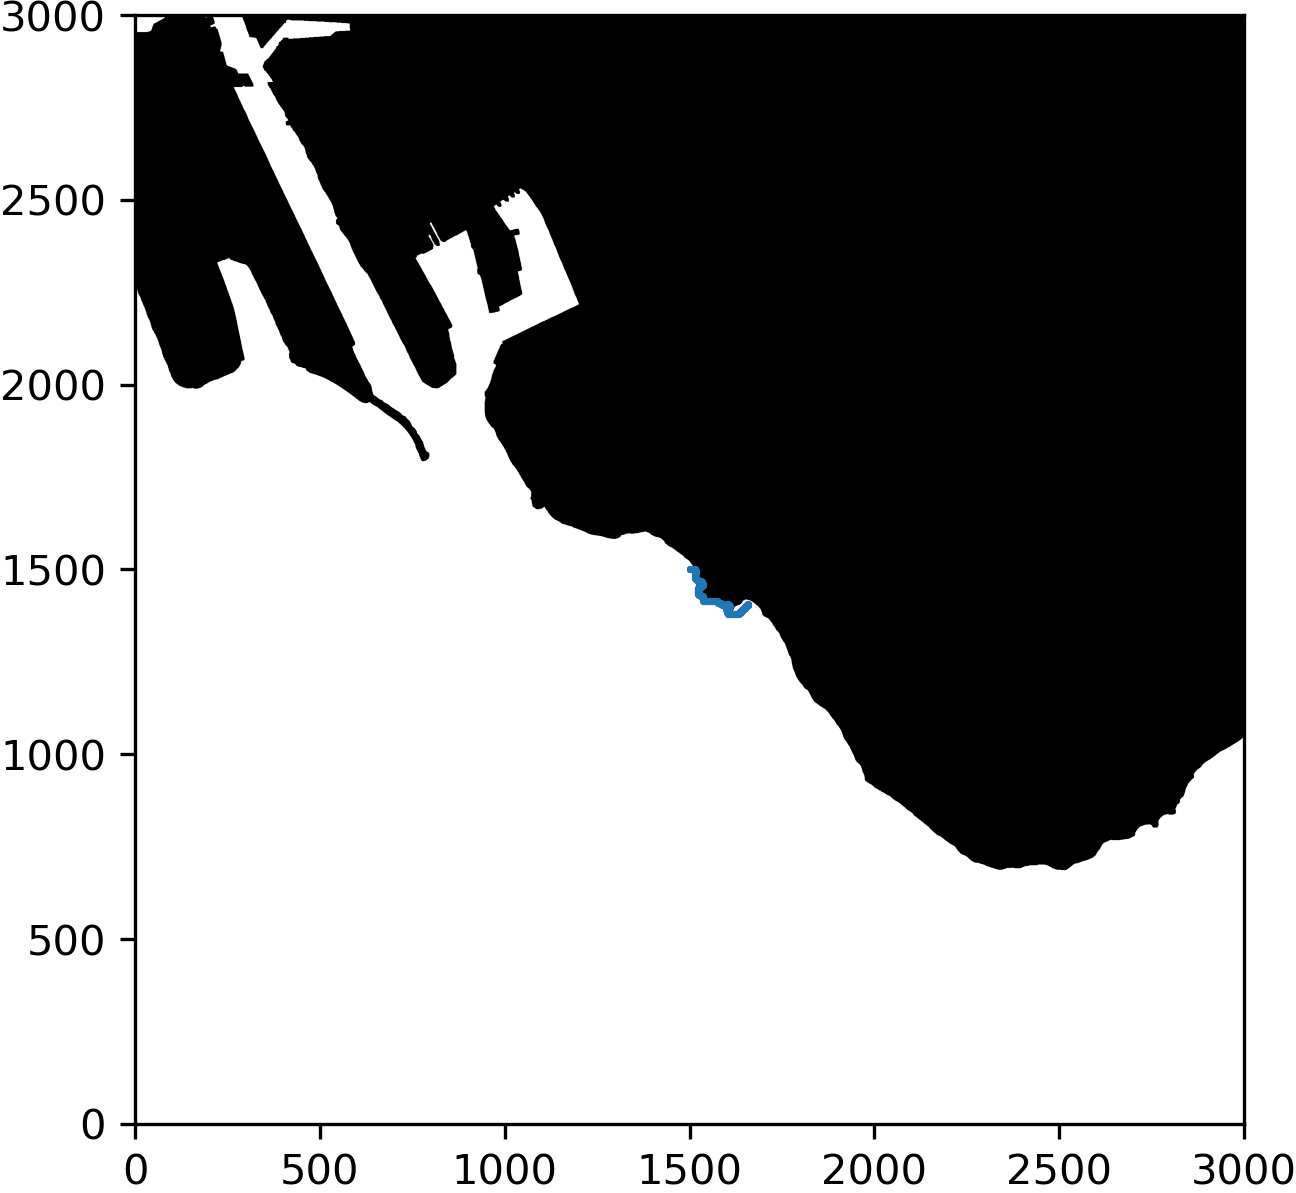
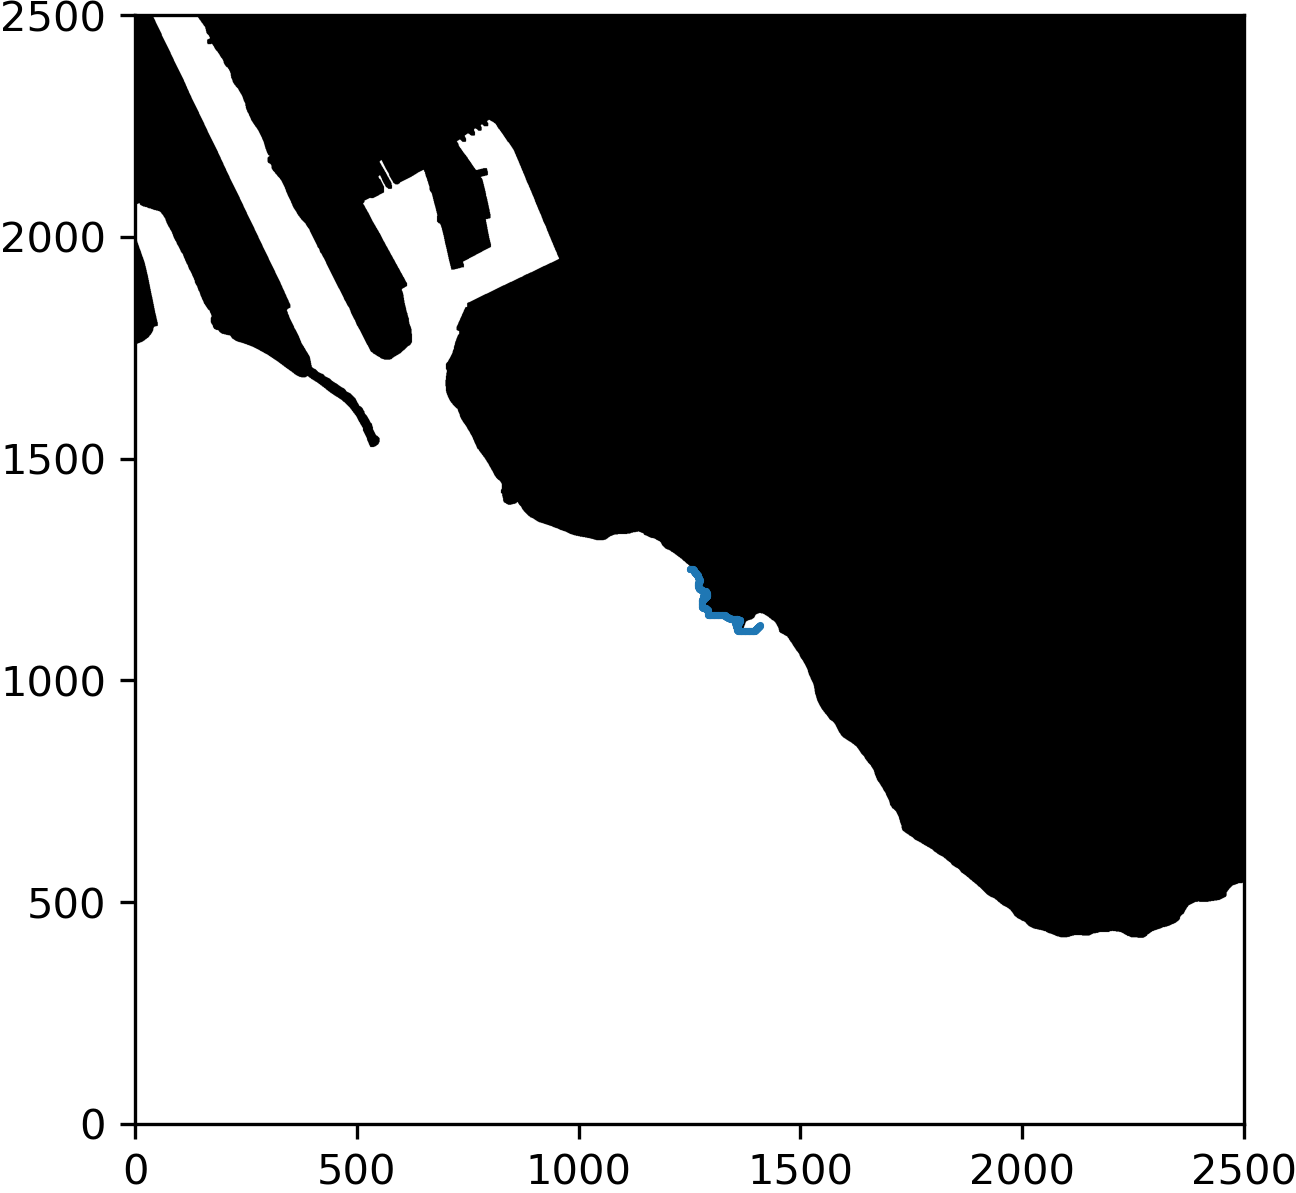
added plotting waypoints and path

diff --git a/src/plot.py b/src/plot.py
@@ -1,9 +1,125 @@
-from seacharts import ENC
+
+import src.coordinate_conversion as cc
 import src.util_functions as uf
-import numpy as np
-'''
-    Plotting functionality is not yet fully implemented, will come soon. :)
-'''
+from seacharts import ENC
+import csv
+
+def read_config(identifier, logpath):
+    '''Reads the mission log config file and returns the values as a dictionary. (Used in plot_mission())
+        params:
+            identifier = unique identifier tied to the logs (datetime in filename)
+            logpath     = path to the mission logfile directory
+    '''
+
+
+
+    with open(f'{logpath}/mission_log_config_{identifier}.csv', 'r', newline='\n') as configfile:
+        reader = csv.reader(configfile, delimiter=';')
+        for row in reader:
+            size0, size1, center0, center1 = row
+            size = (int(size0), int(size1))
+            center = (float(center0), float(center1))    
+    return size, center
+
+
+def read_position(identifier, logpath):
+    '''Reads the mission log position file and returns the values as a dictionary. (Used in plot_mission())
+        params:
+            identifier = unique identifier tied to the logs (datetime in filename)
+            logpath     = path to the mission logfile directory
+    '''
+
+    position = {
+        'time'      : [],
+        'latitude'  : [],
+        'longitude' : [],
+    }
+    
+    with open(f'{logpath}/mission_log_position_{identifier}.csv', 'r', newline='\n') as positionfile:
+        reader = csv.reader(positionfile, delimiter=';')
+        for row in reader:
+            time, latitude, longitude = row
+            position['time'].append(time)
+            position['latitude'].append(latitude)
+            position['longitude'].append(longitude)
+    return position
+
+
+def read_waypoints(identifier, logpath):
+    '''Reads the mission log waypoints file and returns the values as a dictionary. (Used in plot_mission())
+        params:
+            identifier = unique identifier tied to the logs (datetime in filename)
+            logpath     = path to the mission logfile directory
+    '''
+
+    waypoints = {
+        'time'      : [],
+        'seq'       : [],
+        'x'  : [],
+        'y' : [],
+    }
+    
+    with open(f'{logpath}/mission_log_waypoints_{identifier}.csv', 'r', newline='\n') as positionfile:
+        reader = csv.reader(positionfile, delimiter=';')
+        for row in reader:
+            time, seq, latitude, longitude = row
+            xy = cc.utm33_to_wgs84(latitude, longitude, inverse=True)
+
+            waypoints['time'].append(time)
+            waypoints['seq'].append(int(seq))
+            waypoints['x'].append(float(xy[0]))
+            waypoints['y'].append(float(xy[1]))
+    return waypoints
+
+
+
+
+
+def plot_mission(enc_settings, identifier, logpath):
+    ''' Uses the mission logs (both position and waypoints) to plot the planned 
+        path and the actual path taken during the mission.
+        params:
+            identifier = unique identifier tied to the logs (datetime in filename)
+            config     = path to the config log file
+            waypoints  = path to the waypoint log file
+            positions  = path to the position log file
+    '''
+
+    # Reading the mission logs
+    size, center    = read_config(identifier, logpath)
+    waypoints = read_waypoints(identifier, logpath)
+    position  = read_position(identifier, logpath)
+
+    # Configuring ENC to be identical to the mission
+    uf.configure_enc(enc_settings, (272338.26,7043905.93), size)
+    enc = ENC(config='map_settings.yaml')
+    enc.update()
+
+    # Drawing waypoint with arrows between:
+    previous_waypoint_coordinates = 0
+    for index in waypoints['seq']:
+        waypoint_coordinates = (waypoints['x'][index], waypoints['y'][index])
+        print(waypoint_coordinates)
+        enc.display.draw_circle(center=waypoint_coordinates,
+                                radius=4.0,
+                                color='white',
+                                fill=True,
+                                )
+
+        if (previous_waypoint_coordinates != 0):
+            enc.display.draw_arrow(start=previous_waypoint_coordinates,
+                                end=waypoint_coordinates,
+                                color='white',
+                                width=0.25,
+                                fill=True)
+    
+        previous_waypoint_coordinates = waypoint_coordinates
+    
+
+    enc.display.show()
+
+
+
 
 #center = (271794.3121781586, 7042820.867264936)
 #start = center
@@ -14,22 +130,3 @@ import numpy as np
 #enc = ENC('map_settings.yaml')
 #enc.display.draw_arrow(start, end,color='red')
 #enc.display.show()
-
-
-def plot_mission(identifier, logpath, ):
-    ''' Uses the mission logs (both position and waypoints) to plot the planned 
-        path and the actual path taken during the mission.
-        params:
-            identifier = unique identifier tied to the logs (datetime in filename)
-            config     = path to the config log file
-            waypoints  = path to the waypoint log file
-            positions  = path to the position log file
-    '''
-    size, center = np.loadtxt(f'{logpath}/mission_log_config_{identifier}.csv', 
-                              unpack=True, 
-                              skiprows=0,
-                              delimiter=';')
-    
-    print('size: ', size)
-    print('center: ', center)
-

diff --git a/src/util_functions.py b/src/util_functions.py
@@ -30,7 +30,7 @@ def configure_enc(yaml_path, center, size):
     """ Changes configuration values in the ENC's .yaml file:
         Input:
             - yaml_path: Filepath to yaml file
-            - center: New centervalue (in practice "cornervalue") TODO: Add offset
+            - center: New centervalue (in practice "cornervalue")
             - size: New sizevalue
         """
     
@@ -54,12 +54,12 @@ def log_mission_items(identifier, logpath, mission_items):
     with open(f'{logpath}/mission_log_waypoints_{identifier}.csv', 'a', newline='\n') as file:
         writer = csv.writer(file, delimiter=';')
         for item in mission_items:
-            writer.writerow([strftime("%d/%m/%Y_%H:%M:%S", localtime()) , item.seq, item.x/10**7, item.y/10**7])
+            writer.writerow([strftime("%d/%m/%Y_%H:%M:%S", localtime()) , item.seq, item.x, item.y])
 
 def log_enc_config(identifier,logpath, size, center): 
     with open(f'{logpath}/mission_log_config_{identifier}.csv', 'a', newline='\n') as file:
         writer = csv.writer(file, delimiter=';')
-        writer.writerow([size, center])
+        writer.writerow([size[0], size[1], center[0], center[1]])
 
 
 if __name__ == '__main__':

diff --git a/test.py b/test.py
@@ -1,4 +1,4 @@
-import src.plot as plt
+from src.plot import plot_mission
 import os
 
 '''
@@ -6,8 +6,8 @@ import os
     It is not part of the main program. (Does not work right now)
 '''
 
-
+setting_path = f'{os.getcwd()}/map_settings.yaml'
 logging_path = f'{os.getcwd()}/mission_logs/'
-identifier = '12_04_2024_17_40_49'
+identifier = '13_04_2024_15_29_34'
 
-plt.plot_mission(identifier, logging_path)
+plot_mission(setting_path, identifier, logging_path)
